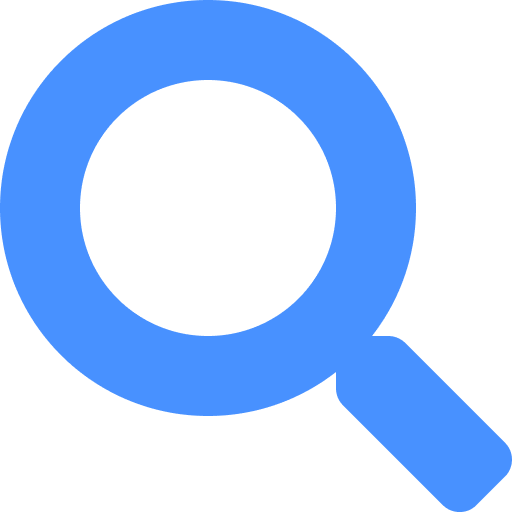
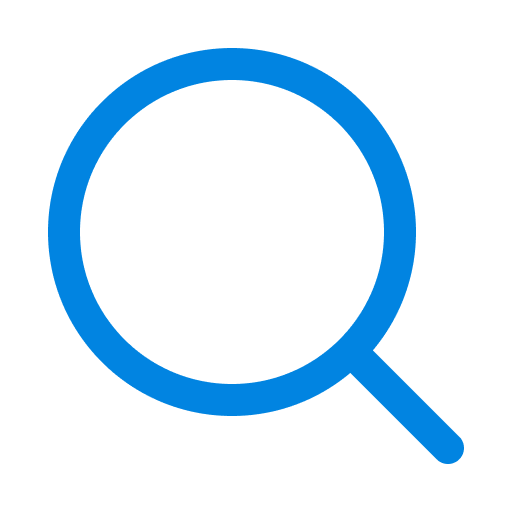
Revamp screen Downline

diff --git a/lib/src/screens/downline.dart b/lib/src/screens/downline.dart
@@ -1,5 +1,7 @@
 import 'dart:async';
 import 'dart:convert';
+import 'dart:math';
+import 'dart:ui';
 
 import 'package:flutter/cupertino.dart';
 import 'package:flutter/material.dart';
@@ -228,13 +230,6 @@ class _DownlineScreenState extends State<DownlineScreen> {
             child: Column(
               children: [
                 TextButton(
-                  style: TextButton.styleFrom(
-                    primary: Colors.blue,
-                    textStyle: const TextStyle(
-                        fontSize: 15,
-                        fontFamily: 'Montserrat',
-                        fontWeight: FontWeight.bold),
-                  ),
                   onPressed: () {
                     const field = 'balance';
                     var direction = 'desc';
@@ -247,24 +242,17 @@ class _DownlineScreenState extends State<DownlineScreen> {
                   child: Row(
                     mainAxisAlignment: MainAxisAlignment.spaceBetween,
                     children: [
-                      Text('Saldo Utama'),
+                      Text('Saldo Utama', style: Theme.of(context).textTheme.subtitle1?.copyWith(fontWeight: FontWeight.bold, color: AppColors.blue6)),
                       Transform.scale(
                         scaleY: (sort[0] == 'balance'
                             ? (sort[1] == 'asc' ? -1 : 1)
                             : 0),
-                        child: Icon(Icons.sort),
+                        child: const Image(image: AppImages.sort, width: 25),
                       )
                     ],
                   ),
                 ),
                 TextButton(
-                  style: TextButton.styleFrom(
-                    primary: Colors.blue,
-                    textStyle: const TextStyle(
-                        fontSize: 15,
-                        fontFamily: 'Montserrat',
-                        fontWeight: FontWeight.bold),
-                  ),
                   onPressed: () {
                     const field = 'balance_credit';
                     var direction = 'desc';
@@ -277,24 +265,17 @@ class _DownlineScreenState extends State<DownlineScreen> {
                   child: Row(
                     mainAxisAlignment: MainAxisAlignment.spaceBetween,
                     children: [
-                      Text('Saldo Kredit'),
+                      Text('Saldo Kredit', style: Theme.of(context).textTheme.subtitle1?.copyWith(fontWeight: FontWeight.bold, color: AppColors.blue6)),
                       Transform.scale(
                         scaleY: (sort[0] == 'balance_credit'
                             ? (sort[1] == 'asc' ? -1 : 1)
                             : 0),
-                        child: Icon(Icons.sort),
+                          child: const Image(image: AppImages.sort, width: 25)
                       )
                     ],
                   ),
                 ),
                 TextButton(
-                  style: TextButton.styleFrom(
-                    primary: Colors.blue,
-                    textStyle: const TextStyle(
-                        fontSize: 15,
-                        fontFamily: 'Montserrat',
-                        fontWeight: FontWeight.bold),
-                  ),
                   onPressed: () {
                     const field = 'hit';
                     var direction = 'desc';
@@ -307,24 +288,17 @@ class _DownlineScreenState extends State<DownlineScreen> {
                   child: Row(
                     mainAxisAlignment: MainAxisAlignment.spaceBetween,
                     children: [
-                      const Text('Hit'),
+                      Text('Hit', style: Theme.of(context).textTheme.subtitle1?.copyWith(fontWeight: FontWeight.bold, color: AppColors.blue6)),
                       Transform.scale(
                         scaleY: (sort[0] == 'hit'
                             ? (sort[1] == 'asc' ? -1 : 1)
                             : 0),
-                        child: Icon(Icons.sort),
+                          child: const Image(image: AppImages.sort, width: 25)
                       )
                     ],
                   ),
                 ),
                 TextButton(
-                  style: TextButton.styleFrom(
-                    primary: Colors.blue,
-                    textStyle: const TextStyle(
-                        fontSize: 15,
-                        fontFamily: 'Montserrat',
-                        fontWeight: FontWeight.bold),
-                  ),
                   onPressed: () {
                     const field = 'last_active';
                     var direction = 'desc';
@@ -337,12 +311,12 @@ class _DownlineScreenState extends State<DownlineScreen> {
                   child: Row(
                     mainAxisAlignment: MainAxisAlignment.spaceBetween,
                     children: [
-                      const Text('Terakhir Aktif'),
+                      Text('Terakhir Aktif', style: Theme.of(context).textTheme.subtitle1?.copyWith(fontWeight: FontWeight.bold, color: AppColors.blue6)),
                       Transform.scale(
                         scaleY: (sort[0] == 'last_active'
                             ? (sort[1] == 'asc' ? -1 : 1)
                             : 0),
-                        child: Icon(Icons.sort),
+                          child: const Image(image: AppImages.sort, width: 25)
                       )
                     ],
                   ),
@@ -499,15 +473,76 @@ class _DownlineScreenState extends State<DownlineScreen> {
                 return buildDownlineItem(items[index]);
               },
             )
-          : const Center(
-              child: Image(
-                image: AppImages.emptyPlaceholder,
-              ),
-            ),
+          : const Padding(padding: EdgeInsets.only(top: 20), child: Text('- Tidak ada data -')),
     );
   }
 
   Widget buildSummary(BuildContext context) {
+    return Container(
+      // height: 200,
+      padding: const EdgeInsets.symmetric(vertical: 10, horizontal: 10),
+      decoration: const BoxDecoration(
+        borderRadius: BorderRadius.all(Radius.elliptical(20, 20)),
+        gradient: LinearGradient(
+          begin: Alignment.centerLeft,
+          end: Alignment.centerRight,
+          colors: [AppColors.gradientBlue2, AppColors.gradientBlue1],
+        ),
+        boxShadow: [
+          BoxShadow(
+            color: Color(0x40000000),
+            offset: Offset(0.0, 4.0), //(x,y)
+            blurRadius: 4.0,
+          ),
+        ],
+      ),
+      child: Column(
+        mainAxisSize: MainAxisSize.max,
+        children: [
+          Container(
+            padding:
+            const EdgeInsets.only(left: 15, top: 15, right: 15, bottom: 15),
+            decoration: const BoxDecoration(
+              borderRadius: BorderRadius.all(Radius.elliptical(18, 18)),
+            ),
+            child: Text('Statistik Bulanan', style: Theme.of(context).textTheme.headline6?.copyWith(color: AppColors.white1, fontWeight: FontWeight.bold),),
+          ),
+          const SizedBox(height: 10),
+          Row(
+            mainAxisSize: MainAxisSize.max,
+            mainAxisAlignment: MainAxisAlignment.spaceAround,
+            children: [
+              const SizedBox(width: 0),
+              Column(
+                crossAxisAlignment: CrossAxisAlignment.start,
+                children: [
+                  Text('Transaksi', style: Theme.of(context).textTheme.bodyMedium?.copyWith(color: AppColors.white1)),
+                  Text(formatNumber(totalTrx), style: Theme.of(context).textTheme.headline6?.copyWith(color: AppColors.white1, fontWeight: FontWeight.bold)),
+                ],
+              ),
+              const SizedBox(width: 20),
+              Column(
+                crossAxisAlignment: CrossAxisAlignment.start,
+                children: [
+                  Text('Total', style: Theme.of(context).textTheme.bodyMedium?.copyWith(color: AppColors.white1)),
+                  Text(formatNumber(totalDownline), style: Theme.of(context).textTheme.headline6?.copyWith(color: AppColors.white1, fontWeight: FontWeight.bold)),
+                ],
+              ),
+              const SizedBox(width: 20),
+              Column(
+                crossAxisAlignment: CrossAxisAlignment.start,
+                children: [
+                  Text('Komisi', style: Theme.of(context).textTheme.bodyMedium?.copyWith(color: AppColors.white1)),
+                  Text(formatNumber(totalBonus), style: Theme.of(context).textTheme.headline6?.copyWith(color: AppColors.white1, fontWeight: FontWeight.bold)),
+                ],
+              ),
+              const SizedBox(width: 0),
+            ],
+          ),
+          const SizedBox(height: 20),
+        ],
+      ),
+    );
     return Card(
       child: Container(
         // width: double.infinity,
@@ -610,10 +645,35 @@ class _DownlineScreenState extends State<DownlineScreen> {
         actions: openSearch
             ? []
             : <Widget>[
+                IconButton(
+                  onPressed: toggleSearch,
+                  icon: const Image(
+                    image: AppImages.search,
+                  ),
+                ),
+                IconButton(
+                  onPressed: openFilterSort,
+                  icon: const Image(
+                    image: AppImages.sort,
+                  ),
+                ),
+              ],
+      ),
+      body: Container(
+        decoration: const BoxDecoration(color: AppColors.white1),
+        padding: const EdgeInsets.symmetric(horizontal: 20),
+        child: Column(
+          children: [
+            Row(
+              mainAxisAlignment: MainAxisAlignment.end,
+              children: [
                 TextButton(
                   child: Text(
                     '${formatDate(dateRange.start, format: 'd MMM')} - ${formatDate(dateRange.end, format: 'd MMM')}',
-                    style: Theme.of(context).textTheme.bodySmall,
+                    style: Theme.of(context)
+                        .textTheme
+                        .titleSmall
+                        ?.copyWith(color: AppColors.black1),
                   ),
                   onPressed: openFilterDate,
                 ),
@@ -623,22 +683,14 @@ class _DownlineScreenState extends State<DownlineScreen> {
                     image: AppImages.calendar,
                   ),
                 ),
-                IconButton(
-                  onPressed: toggleSearch,
-                  icon: const Icon(Icons.search, size: 32),
-                ),
-                IconButton(
-                  onPressed: openFilterSort,
-                  icon: const Icon(Icons.sort, size: 32),
-                ),
               ],
-      ),
-      body: Container(
-        padding: const EdgeInsets.symmetric(vertical: 10, horizontal: 20),
-        child: Column(
-          children: [
+            ),
+            const SizedBox(height: 10),
             buildSummary(context),
+            const SizedBox(height: 20),
+            Text('Daftar Downline', style: Theme.of(context).textTheme.headline6?.copyWith(color: AppColors.black1, fontWeight: FontWeight.normal)),
             FlexBoxGray(
+              padding: const EdgeInsets.all(10),
               margin: const EdgeInsets.only(top: 10),
               child: buildItems(context),
             ),
@@ -649,7 +701,7 @@ class _DownlineScreenState extends State<DownlineScreen> {
       floatingActionButton: FloatingActionButton(
         isExtended: false,
         onPressed: onRegisterDownline,
-        backgroundColor: const Color(0xffFFCC40),
+        backgroundColor: const Color(0xff1c96d2),
         child: Container(
           margin: const EdgeInsets.all(1.0),
           padding: const EdgeInsets.all(12),

diff --git a/lib/src/theme/images.dart b/lib/src/theme/images.dart
@@ -15,6 +15,7 @@ class AppImages {
   static const back = AssetImage('assets/images/back.png');
   static const calendar = AssetImage('assets/images/calendar.png');
   static const search = AssetImage('assets/images/search.png');
+  static const sort = AssetImage('assets/images/sorting.png');
   static const notification = AssetImage('assets/images/notification.png');
   static const chat = AssetImage('assets/images/chat.png');
   static const user = AssetImage('assets/images/user.png');
